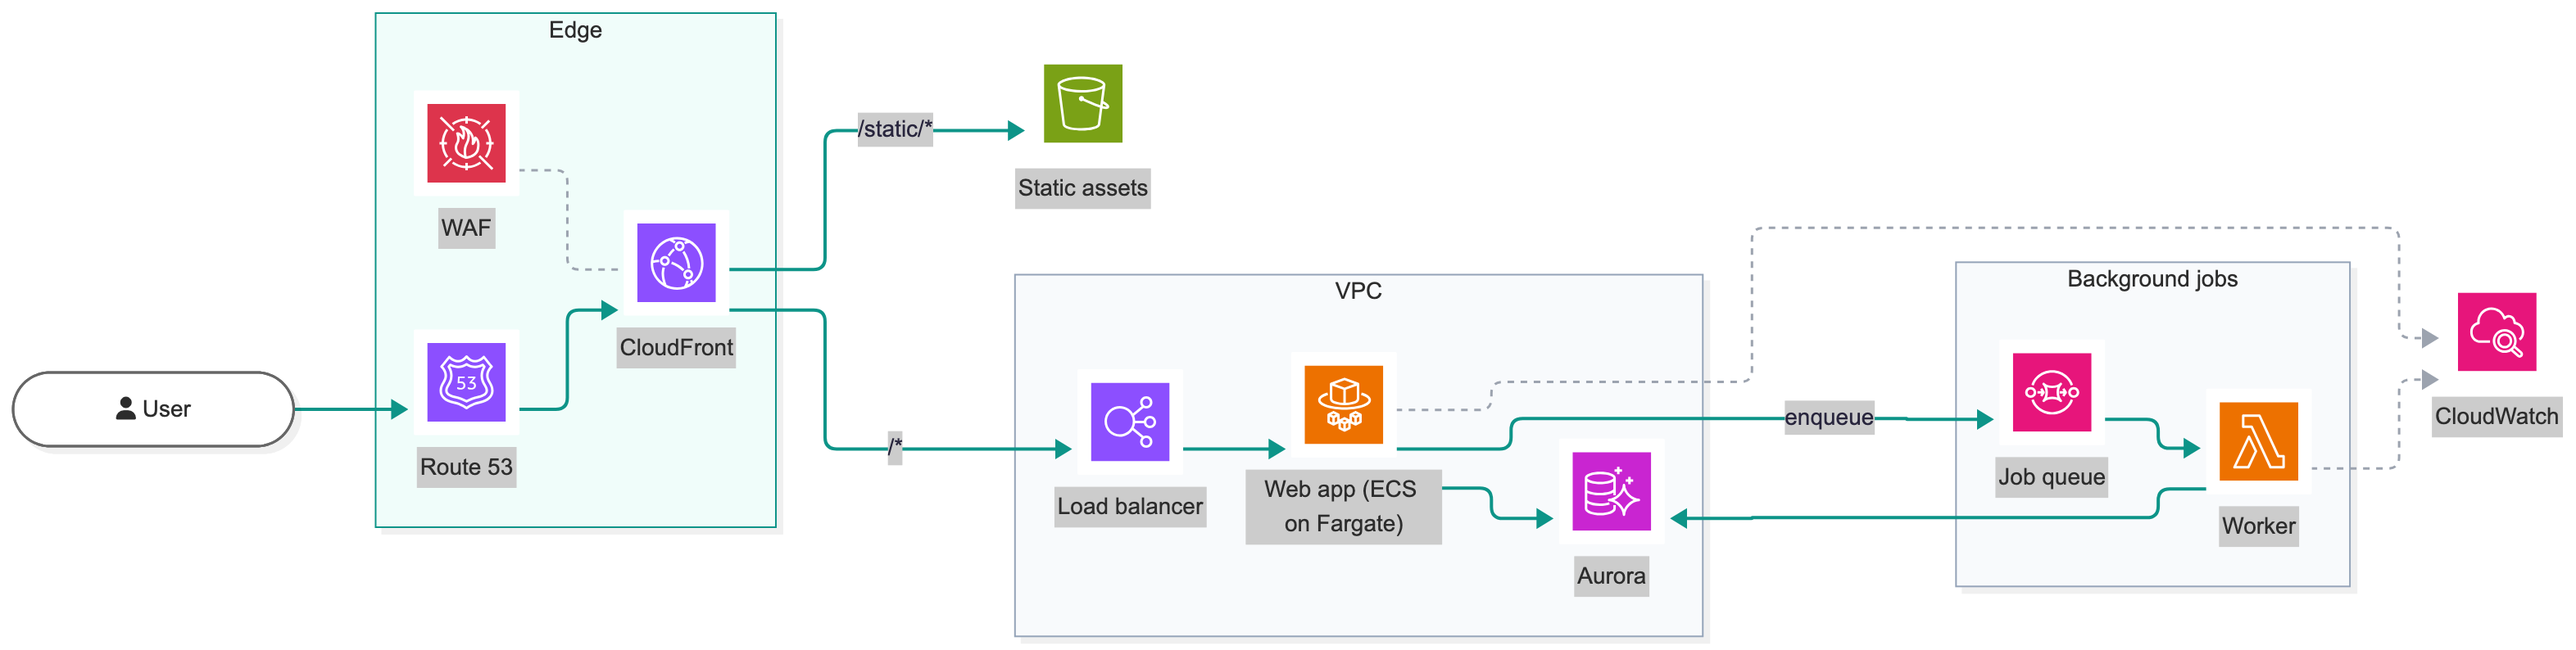
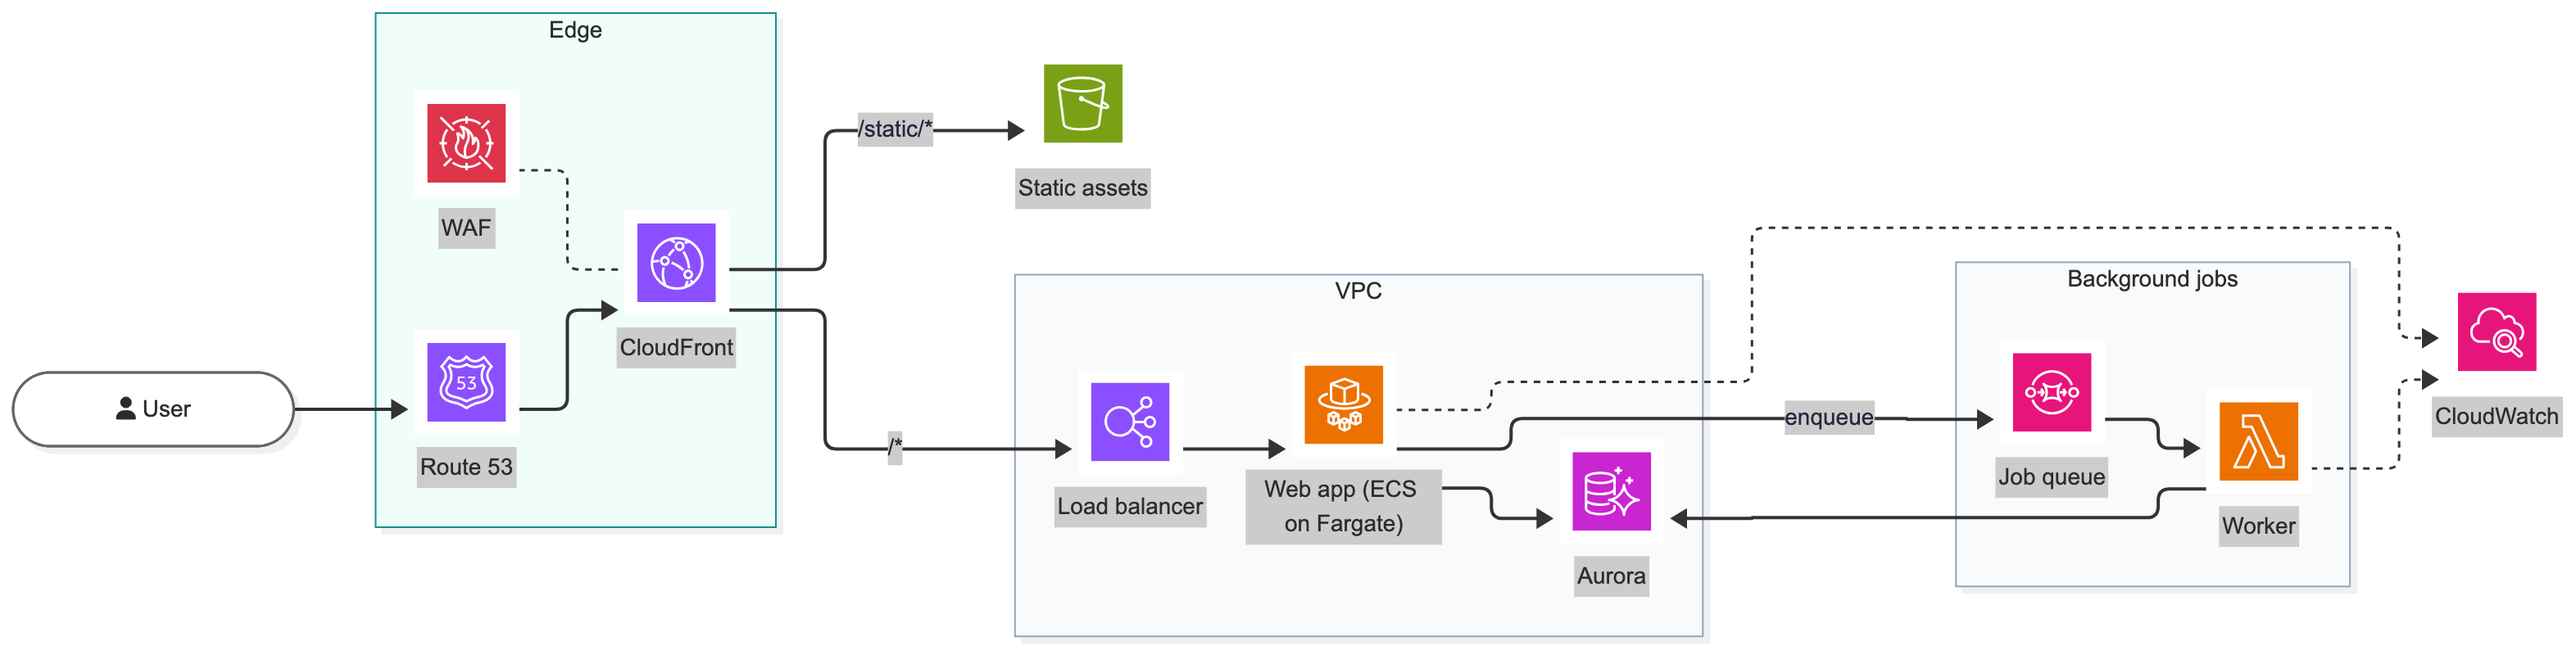
docs: draw the AWS sample's links in black
Teal and grey links looked out of place next to the AWS icons. Draw all
links #333333, as in AWS's own diagrams and the architecture-beta sample:
solid for requests, dashed for protection and logging. The subgraph
plates keep the repository color scheme.

diff --git a/docs/examples/aws-architecture_ja.md b/docs/examples/aws-architecture_ja.md
@@ -40,7 +40,7 @@ node $CLI mermaid2png docs/architecture.md --icons-zip $ZIP --background white
 
 ## AWS アイコンを使った flowchart
 
-CloudFront の後ろにある Web アプリと、バックグラウンドのジョブです。リポジトリのカラースキームで色を付けています: リクエストはアクセント色の実線、保護とログは灰色の点線、subgraph の後ろには淡い背景、AWS のアイコンの絵はそのまま。点線があるので `elk.lineHops: false` を付けています([理由](../skills/claude/gospelo-mermaid-plus/references/color-scheme.md#dashed-links-need-elklinehops-false))。
+CloudFront の後ろにある Web アプリと、バックグラウンドのジョブです。線は AWS の構成図と同じく黒にしています: リクエストは実線、保護とログは点線です。subgraph の背景はリポジトリのカラースキームの淡い色で、AWS のアイコンの絵はそのままです。点線があるので `elk.lineHops: false` を付けています([理由](../skills/claude/gospelo-mermaid-plus/references/color-scheme.md#dashed-links-need-elklinehops-false))。
 
 ![diagram](images/aws-architecture_ja-1.png)
 
@@ -96,8 +96,8 @@ flowchart LR
     style jobs fill:#F8FAFC,stroke:#94A3B8,color:#2C2C2C
 
     %% solid = requests and jobs; dashed = protection and logging
-    linkStyle 0,1,3,4,5,6,7,8,9 stroke:#0D9488,stroke-width:2px
-    linkStyle 2,10,11 stroke:#9CA3AF,stroke-width:1.5px,stroke-dasharray:4 4
+    linkStyle 0,1,3,4,5,6,7,8,9 stroke:#333333,stroke-width:2px
+    linkStyle 2,10,11 stroke:#333333,stroke-width:1.5px,stroke-dasharray:4 4
 ```
 
 </details>
@@ -155,8 +155,8 @@ flowchart LR
     style jobs fill:#F8FAFC,stroke:#94A3B8,color:#2C2C2C
 
     %% solid = requests and jobs; dashed = protection and logging
-    linkStyle 0,1,3,4,5,6,7,8,9 stroke:#0D9488,stroke-width:2px
-    linkStyle 2,10,11 stroke:#9CA3AF,stroke-width:1.5px,stroke-dasharray:4 4
+    linkStyle 0,1,3,4,5,6,7,8,9 stroke:#333333,stroke-width:2px
+    linkStyle 2,10,11 stroke:#333333,stroke-width:1.5px,stroke-dasharray:4 4
 ```
 ````
 

diff --git a/docs/examples/aws-architecture.md b/docs/examples/aws-architecture.md
@@ -40,7 +40,7 @@ A misspelled icon name stops the render with an `unknown-icon` error that sugges
 
 ## Flowchart with AWS icons
 
-A web app behind CloudFront, with background jobs. Styled with the repository color scheme: solid accent links for requests, dashed grey links for protection and logging, a light plate behind the subgraphs, and the AWS icon artwork left as is. The dashed links come with `elk.lineHops: false` ([why](../skills/claude/gospelo-mermaid-plus/references/color-scheme.md#dashed-links-need-elklinehops-false)).
+A web app behind CloudFront, with background jobs. Links are black, as in AWS's own diagrams: solid for requests, dashed for protection and logging. The subgraphs get the repository color scheme's light plates, and the AWS icon artwork is left as is. The dashed links come with `elk.lineHops: false` ([why](../skills/claude/gospelo-mermaid-plus/references/color-scheme.md#dashed-links-need-elklinehops-false)).
 
 ![diagram](images/aws-architecture-1.png)
 
@@ -96,8 +96,8 @@ flowchart LR
     style jobs fill:#F8FAFC,stroke:#94A3B8,color:#2C2C2C
 
     %% solid = requests and jobs; dashed = protection and logging
-    linkStyle 0,1,3,4,5,6,7,8,9 stroke:#0D9488,stroke-width:2px
-    linkStyle 2,10,11 stroke:#9CA3AF,stroke-width:1.5px,stroke-dasharray:4 4
+    linkStyle 0,1,3,4,5,6,7,8,9 stroke:#333333,stroke-width:2px
+    linkStyle 2,10,11 stroke:#333333,stroke-width:1.5px,stroke-dasharray:4 4
 ```
 
 </details>
@@ -155,8 +155,8 @@ flowchart LR
     style jobs fill:#F8FAFC,stroke:#94A3B8,color:#2C2C2C
 
     %% solid = requests and jobs; dashed = protection and logging
-    linkStyle 0,1,3,4,5,6,7,8,9 stroke:#0D9488,stroke-width:2px
-    linkStyle 2,10,11 stroke:#9CA3AF,stroke-width:1.5px,stroke-dasharray:4 4
+    linkStyle 0,1,3,4,5,6,7,8,9 stroke:#333333,stroke-width:2px
+    linkStyle 2,10,11 stroke:#333333,stroke-width:1.5px,stroke-dasharray:4 4
 ```
 ````
 
